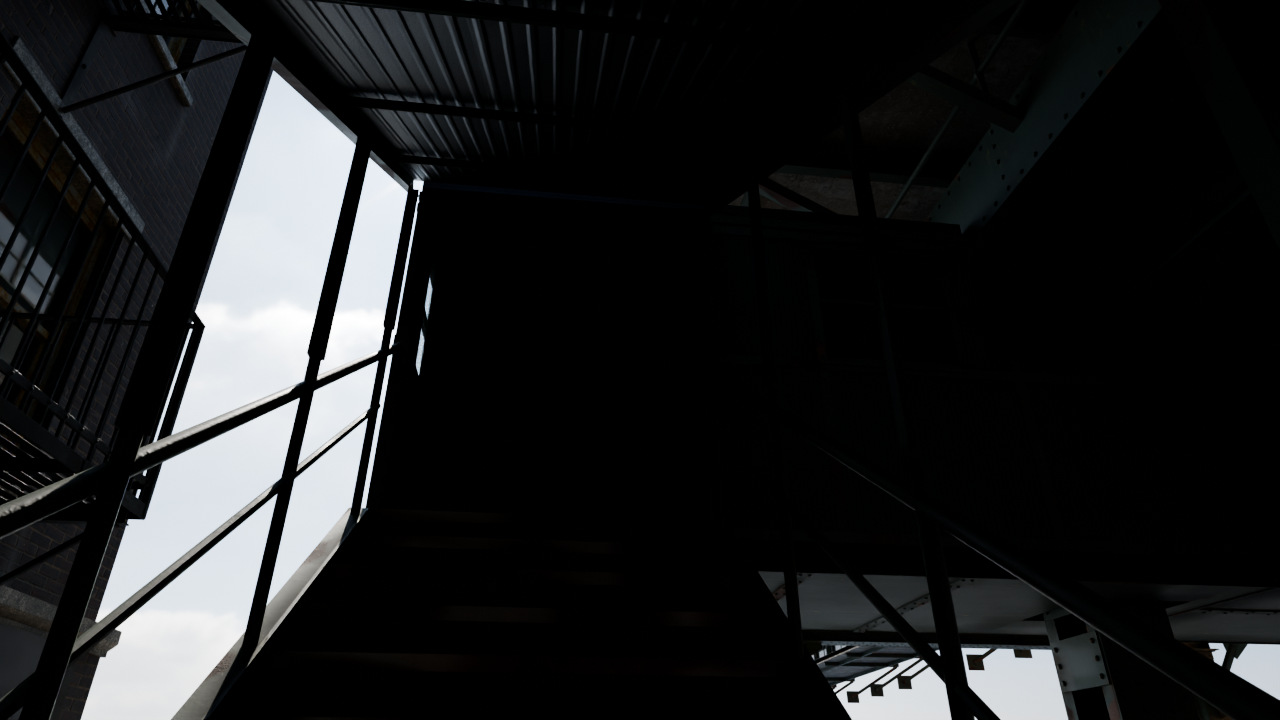
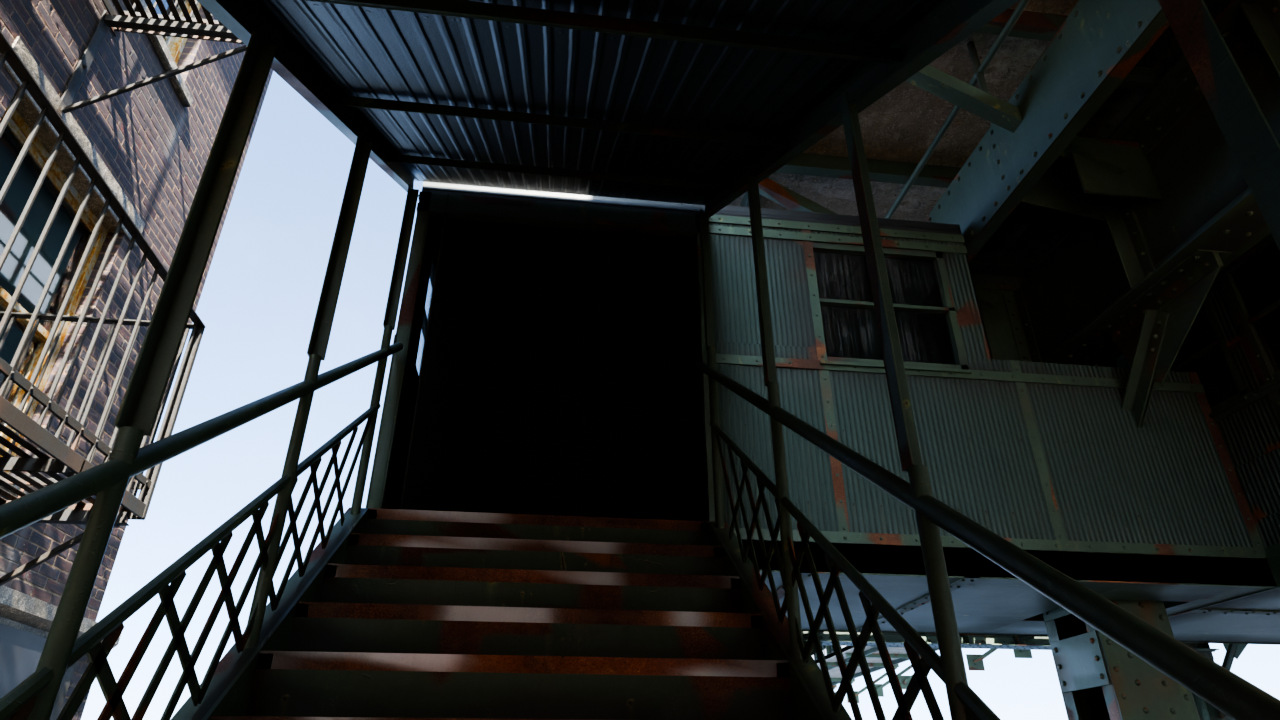
art: structures station_up preview round 2; progress notes
Claude-Session: https://claude.ai/code/session_01HkcHdD7NbyxwnFfuuSpZY4

diff --git a/art/blender/PROGRESS.md b/art/blender/PROGRESS.md
@@ -503,3 +503,6 @@ previews goons_lineup/_hoodie_hero/_detail/_poses/_wire, CHARACTERS.md.
 - Known weaknesses: green globe lamps read as flat uniform spheres; the mezzanine office in the chop shop is dark;
   oil stains are soft uniform blobs; open-web joists read as plain beams from the floor; the kiosk padlock pokes
   16 mm outside collider 490.
+- [x] structures_station_up.jpg rendered (2K texture cap, 966 s) and looked at: treads, nosings, lattice
+      balustrades, canopy and bridge enclosure read; the doorway into the bridge at the head is black (no daytime light
+      inside the bridge). Task complete; all five previews in art/previews.
